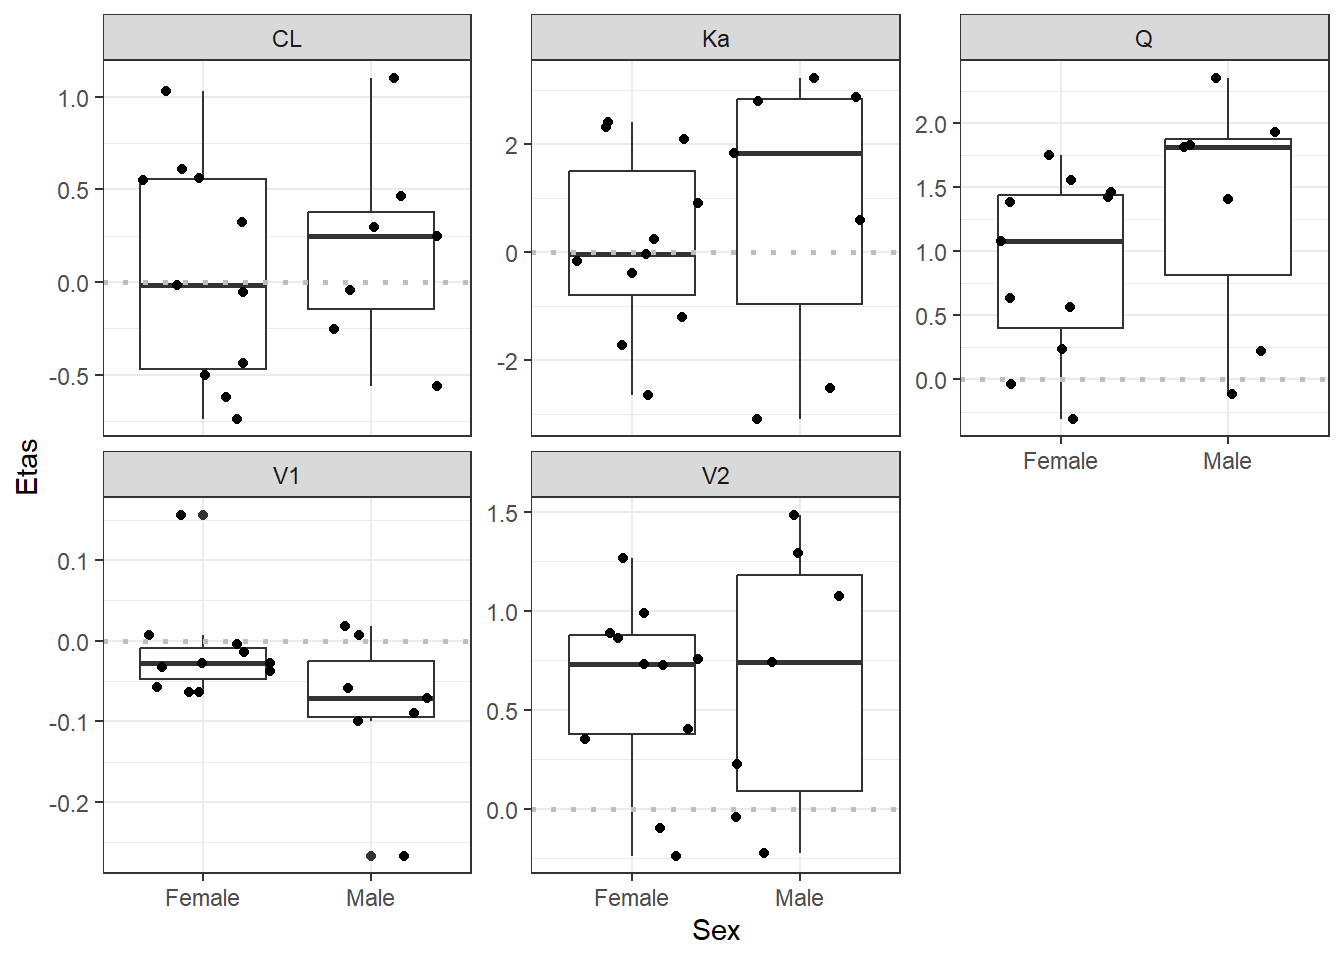
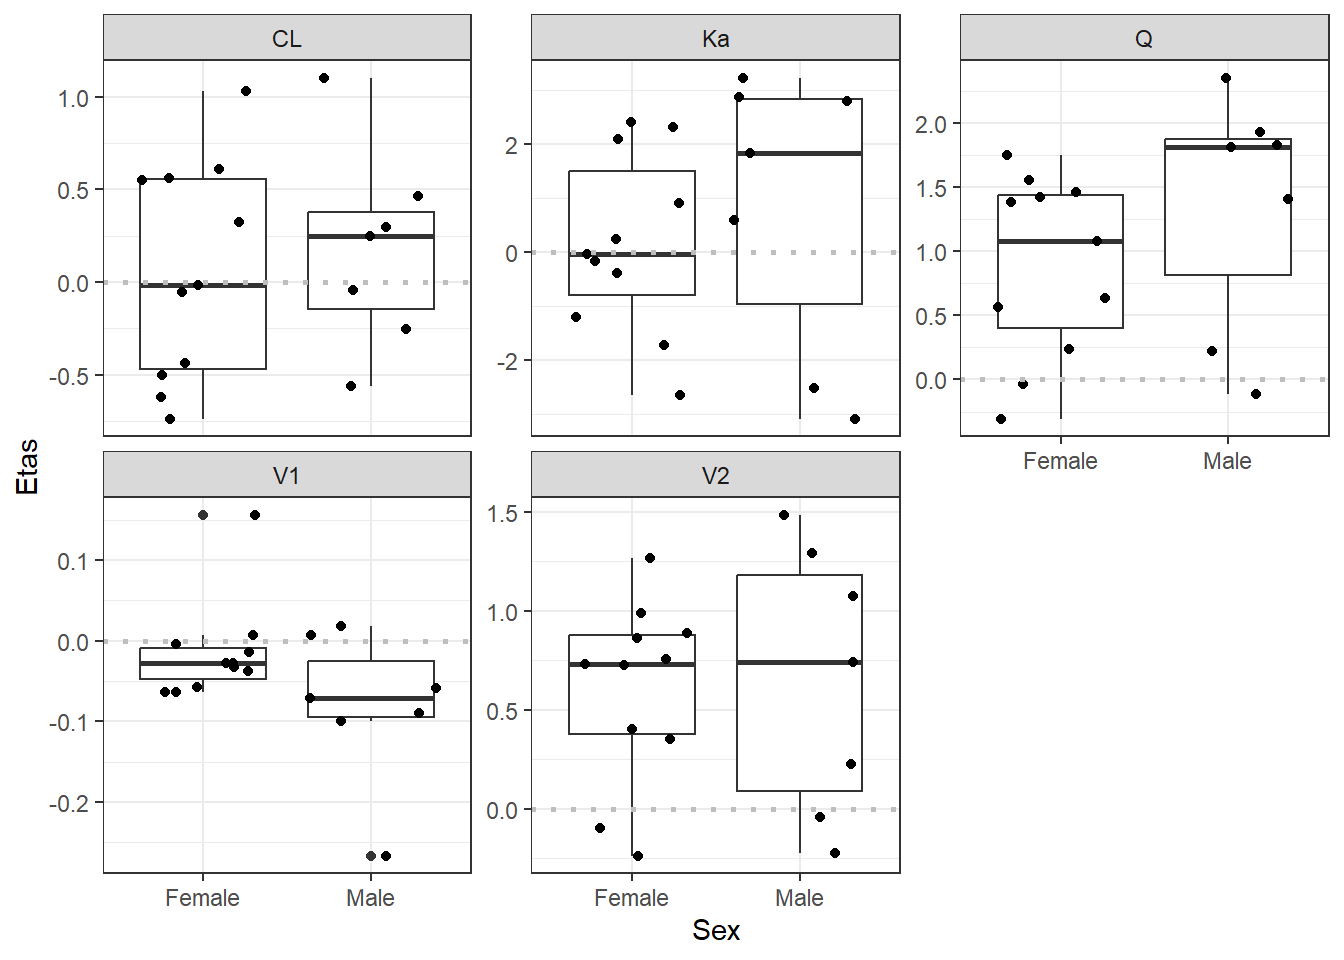
review

diff --git a/scripts/simulations.html b/scripts/simulations.html
@@ -227,7 +227,7 @@ div.csl-indent {
 <span id="cb2-26"><a href="#cb2-26" aria-hidden="true" tabindex="-1"></a>model_name <span class="ot">=</span> <span class="st">"2cmpabs-2cmpdisp"</span></span>
 <span id="cb2-27"><a href="#cb2-27" aria-hidden="true" tabindex="-1"></a>pkmod3 <span class="ot">&lt;-</span> <span class="fu">mread</span>(here<span class="sc">::</span><span class="fu">here</span>(sim_model_dir, model_name))</span>
 <span id="cb2-28"><a href="#cb2-28" aria-hidden="true" tabindex="-1"></a>model_dir <span class="ot">&lt;-</span> here<span class="sc">::</span><span class="fu">here</span>(<span class="st">"model"</span>,<span class="st">"torsten"</span>) </span>
-<span id="cb2-29"><a href="#cb2-29" aria-hidden="true" tabindex="-1"></a>modx  <span class="ot">&lt;-</span> <span class="fu">read_model</span>(here<span class="sc">::</span><span class="fu">here</span>(model_dir, <span class="st">"3"</span>))</span>
+<span id="cb2-29"><a href="#cb2-29" aria-hidden="true" tabindex="-1"></a>modx  <span class="ot">&lt;-</span> <span class="fu">read_model</span>(here<span class="sc">::</span><span class="fu">here</span>(model_dir, <span class="st">"3b"</span>))</span>
 <span id="cb2-30"><a href="#cb2-30" aria-hidden="true" tabindex="-1"></a>mod_to_plot <span class="ot">&lt;-</span> <span class="fu">read_fit_model</span>(modx)</span>
 <span id="cb2-31"><a href="#cb2-31" aria-hidden="true" tabindex="-1"></a>pars <span class="ot">=</span> <span class="fu">c</span>(<span class="st">"CLHat"</span>, <span class="st">"QHat"</span>, <span class="st">"V1Hat"</span>, <span class="st">"V2Hat"</span>, <span class="st">"KAHat"</span>, <span class="st">"KA14Hat"</span>, <span class="st">"KA41Hat"</span>)</span>
 <span id="cb2-32"><a href="#cb2-32" aria-hidden="true" tabindex="-1"></a>ptable3 <span class="ot">&lt;-</span> posterior<span class="sc">::</span><span class="fu">as_draws_df</span>(mod_to_plot<span class="sc">$</span><span class="fu">draws</span>(<span class="fu">c</span>(pars))) <span class="sc">%&gt;%</span></span>
@@ -244,7 +244,7 @@ div.csl-indent {
 <span id="cb2-43"><a href="#cb2-43" aria-hidden="true" tabindex="-1"></a>model_name <span class="ot">=</span> <span class="st">"2cmpabs-2cmpdisp-ss"</span></span>
 <span id="cb2-44"><a href="#cb2-44" aria-hidden="true" tabindex="-1"></a>pkmod3ss <span class="ot">&lt;-</span> <span class="fu">mread</span>(here<span class="sc">::</span><span class="fu">here</span>(sim_model_dir, model_name))</span>
 <span id="cb2-45"><a href="#cb2-45" aria-hidden="true" tabindex="-1"></a>model_dir <span class="ot">&lt;-</span> here<span class="sc">::</span><span class="fu">here</span>(<span class="st">"model"</span>,<span class="st">"torsten"</span>) </span>
-<span id="cb2-46"><a href="#cb2-46" aria-hidden="true" tabindex="-1"></a>modx  <span class="ot">&lt;-</span> <span class="fu">read_model</span>(here<span class="sc">::</span><span class="fu">here</span>(model_dir, <span class="st">"3"</span>))</span>
+<span id="cb2-46"><a href="#cb2-46" aria-hidden="true" tabindex="-1"></a>modx  <span class="ot">&lt;-</span> <span class="fu">read_model</span>(here<span class="sc">::</span><span class="fu">here</span>(model_dir, <span class="st">"3b"</span>))</span>
 <span id="cb2-47"><a href="#cb2-47" aria-hidden="true" tabindex="-1"></a>mod_to_plot <span class="ot">&lt;-</span> <span class="fu">read_fit_model</span>(modx)</span>
 <span id="cb2-48"><a href="#cb2-48" aria-hidden="true" tabindex="-1"></a>pars <span class="ot">=</span> <span class="fu">c</span>(<span class="st">"CLHat"</span>, <span class="st">"QHat"</span>, <span class="st">"V1Hat"</span>, <span class="st">"V2Hat"</span>, <span class="st">"KAHat"</span>, <span class="st">"KA14Hat"</span>, <span class="st">"KA41Hat"</span>)</span>
 <span id="cb2-49"><a href="#cb2-49" aria-hidden="true" tabindex="-1"></a>ptable3ss <span class="ot">&lt;-</span> posterior<span class="sc">::</span><span class="fu">as_draws_df</span>(mod_to_plot<span class="sc">$</span><span class="fu">draws</span>(<span class="fu">c</span>(pars))) <span class="sc">%&gt;%</span></span>
@@ -463,22 +463,22 @@ other attached packages:
 
 loaded via a namespace (and not attached):
  [1] gtable_0.3.5         tensorA_0.36.2.1     xfun_0.50           
- [4] htmlwidgets_1.6.4    visdat_0.6.0         processx_3.8.5      
- [7] callr_3.7.6          tzdb_0.4.0           vctrs_0.6.5         
-[10] tools_4.3.1          ps_1.8.1             generics_0.1.3      
-[13] pkgconfig_2.0.3      checkmate_2.3.2      distributional_0.5.0
-[16] assertthat_0.2.1     lifecycle_1.0.4      farver_2.1.2        
-[19] compiler_4.3.1       textshaping_0.4.0    munsell_0.5.1       
-[22] htmltools_0.5.8.1    yaml_2.3.10          pillar_1.10.1       
-[25] crayon_1.5.3         abind_1.4-8          tidyselect_1.2.1    
-[28] digest_0.6.37        stringi_1.8.4        diffobj_0.3.5       
-[31] labeling_0.4.3       rprojroot_2.0.4      fastmap_1.2.0       
-[34] grid_4.3.1           colorspace_2.1-0     cli_3.6.3           
-[37] magrittr_2.0.3       withr_3.0.2          backports_1.5.0     
-[40] timechange_0.3.0     rmarkdown_2.27       ragg_1.3.2          
-[43] hms_1.1.3            evaluate_0.23        rlang_1.1.4         
-[46] Rcpp_1.0.13-1        rstudioapi_0.16.0    jsonlite_1.8.9      
-[49] R6_2.5.1             systemfonts_1.1.0    fs_1.6.5            </code></pre>
+ [4] visdat_0.6.0         processx_3.8.5       callr_3.7.6         
+ [7] tzdb_0.4.0           vctrs_0.6.5          tools_4.3.1         
+[10] ps_1.8.1             generics_0.1.3       pkgconfig_2.0.3     
+[13] checkmate_2.3.2      distributional_0.5.0 assertthat_0.2.1    
+[16] lifecycle_1.0.4      farver_2.1.2         compiler_4.3.1      
+[19] textshaping_0.4.0    munsell_0.5.1        htmltools_0.5.8.1   
+[22] yaml_2.3.10          pillar_1.10.1        crayon_1.5.3        
+[25] abind_1.4-8          tidyselect_1.2.1     digest_0.6.37       
+[28] stringi_1.8.4        diffobj_0.3.5        labeling_0.4.3      
+[31] rprojroot_2.0.4      fastmap_1.2.0        grid_4.3.1          
+[34] colorspace_2.1-0     cli_3.6.3            magrittr_2.0.3      
+[37] withr_3.0.2          backports_1.5.0      timechange_0.3.0    
+[40] rmarkdown_2.27       ragg_1.3.2           hms_1.1.3           
+[43] evaluate_0.23        rlang_1.1.4          Rcpp_1.0.13-1       
+[46] rstudioapi_0.16.0    jsonlite_1.8.9       R6_2.5.1            
+[49] systemfonts_1.1.0    fs_1.6.5            </code></pre>
 </div>
 </div>
 </section>

diff --git a/scripts/bayesian-analysis.html b/scripts/bayesian-analysis.html
@@ -1406,13 +1406,13 @@ div.csl-indent {
 </details>
 <div class="cell-output cell-output-stdout">
 <pre><code>[[1]]
-[1] "C:/Users/GUMed/Documents/PKPDprojects/sufentanil_epidural/deliv/figures/torsten/1/cov-plots-1.png"
+[1] "C:/Users/GUMed/Documents/PKPDprojects/sufentanil-epidural/deliv/figures/torsten/1/cov-plots-1.png"
 
 [[2]]
-[1] "C:/Users/GUMed/Documents/PKPDprojects/sufentanil_epidural/deliv/figures/torsten/1/cov-plots-2.png"
+[1] "C:/Users/GUMed/Documents/PKPDprojects/sufentanil-epidural/deliv/figures/torsten/1/cov-plots-2.png"
 
 [[3]]
-[1] "C:/Users/GUMed/Documents/PKPDprojects/sufentanil_epidural/deliv/figures/torsten/1/cov-plots-3.png"</code></pre>
+[1] "C:/Users/GUMed/Documents/PKPDprojects/sufentanil-epidural/deliv/figures/torsten/1/cov-plots-3.png"</code></pre>
 </div>
 </div>
 </section>
@@ -2340,13 +2340,13 @@ div.csl-indent {
 </details>
 <div class="cell-output cell-output-stdout">
 <pre><code>[[1]]
-[1] "C:/Users/GUMed/Documents/PKPDprojects/sufentanil_epidural/deliv/figures/torsten/3b/cov-plots-1.png"
+[1] "C:/Users/GUMed/Documents/PKPDprojects/sufentanil-epidural/deliv/figures/torsten/3b/cov-plots-1.png"
 
 [[2]]
-[1] "C:/Users/GUMed/Documents/PKPDprojects/sufentanil_epidural/deliv/figures/torsten/3b/cov-plots-2.png"
+[1] "C:/Users/GUMed/Documents/PKPDprojects/sufentanil-epidural/deliv/figures/torsten/3b/cov-plots-2.png"
 
 [[3]]
-[1] "C:/Users/GUMed/Documents/PKPDprojects/sufentanil_epidural/deliv/figures/torsten/3b/cov-plots-3.png"</code></pre>
+[1] "C:/Users/GUMed/Documents/PKPDprojects/sufentanil-epidural/deliv/figures/torsten/3b/cov-plots-3.png"</code></pre>
 </div>
 <details>
 <summary>Code</summary>
@@ -3455,25 +3455,25 @@ loaded via a namespace (and not attached):
  [7] tensorA_0.36.2.1     digest_0.6.37        timechange_0.3.0    
 [10] lifecycle_1.0.4      processx_3.8.5       magrittr_2.0.3      
 [13] compiler_4.3.1       rlang_1.1.4          tools_4.3.1         
-[16] yaml_2.3.10          labeling_0.4.3       htmlwidgets_1.6.4   
-[19] classInt_0.4-10      plyr_1.8.9           xml2_1.3.6          
-[22] RColorBrewer_1.1-3   KernSmooth_2.23-21   abind_1.4-8         
-[25] withr_3.0.2          grid_4.3.1           diffobj_0.3.5       
-[28] e1071_1.7-14         colorspace_2.1-0     cli_3.6.3           
-[31] rmarkdown_2.27       crayon_1.5.3         ragg_1.3.2          
-[34] generics_0.1.3       rstudioapi_0.16.0    reshape2_1.4.4      
-[37] tzdb_0.4.0           proxy_0.4-27         bayesplot_1.11.1    
-[40] assertthat_0.2.1     parallel_4.3.1       matrixStats_1.5.0   
-[43] vctrs_0.6.5          jsonlite_1.8.9       callr_3.7.6         
-[46] arrayhelpers_1.1-0   hms_1.1.3            visdat_0.6.0        
-[49] systemfonts_1.1.0    ggdist_3.3.2         ps_1.8.1            
-[52] distributional_0.5.0 stringi_1.8.4        gtable_0.3.5        
-[55] munsell_0.5.1        pillar_1.10.1        htmltools_0.5.8.1   
-[58] R6_2.5.1             textshaping_0.4.0    rprojroot_2.0.4     
-[61] lattice_0.21-8       evaluate_0.23        kableExtra_1.4.0    
-[64] backports_1.5.0      class_7.3-22         Rcpp_1.0.13-1       
-[67] coda_0.19-4.1        svglite_2.1.3        checkmate_2.3.2     
-[70] xfun_0.50            fs_1.6.5             pkgconfig_2.0.3     </code></pre>
+[16] yaml_2.3.10          labeling_0.4.3       classInt_0.4-10     
+[19] plyr_1.8.9           xml2_1.3.6           RColorBrewer_1.1-3  
+[22] abind_1.4-8          KernSmooth_2.23-21   withr_3.0.2         
+[25] grid_4.3.1           diffobj_0.3.5        e1071_1.7-14        
+[28] colorspace_2.1-0     cli_3.6.3            rmarkdown_2.27      
+[31] crayon_1.5.3         ragg_1.3.2           generics_0.1.3      
+[34] rstudioapi_0.16.0    reshape2_1.4.4       tzdb_0.4.0          
+[37] proxy_0.4-27         bayesplot_1.11.1     assertthat_0.2.1    
+[40] parallel_4.3.1       matrixStats_1.5.0    vctrs_0.6.5         
+[43] jsonlite_1.8.9       callr_3.7.6          arrayhelpers_1.1-0  
+[46] hms_1.1.3            visdat_0.6.0         systemfonts_1.1.0   
+[49] ggdist_3.3.2         ps_1.8.1             distributional_0.5.0
+[52] stringi_1.8.4        gtable_0.3.5         munsell_0.5.1       
+[55] pillar_1.10.1        htmltools_0.5.8.1    R6_2.5.1            
+[58] textshaping_0.4.0    rprojroot_2.0.4      lattice_0.21-8      
+[61] evaluate_0.23        kableExtra_1.4.0     backports_1.5.0     
+[64] class_7.3-22         Rcpp_1.0.13-1        coda_0.19-4.1       
+[67] svglite_2.1.3        checkmate_2.3.2      xfun_0.50           
+[70] fs_1.6.5             pkgconfig_2.0.3     </code></pre>
 </div>
 </div>
 </section>

diff --git a/deliv/tables/torsten/3b/parameters-table.tex b/deliv/tables/torsten/3b/parameters-table.tex
@@ -1,0 +1,40 @@
+
+\begin{tabular}{l|l|l|l|l|l}
+\hline
+parameter & mean & median & sd & 90\% CI & rhat\\
+\hline
+lp\_\_ & -131 & -131 & 10.6 & (-150, -115) & 1\\
+\hline
+CLHat & 64.9 & 64.5 & 7.85 & (52.4, 78.2) & 1\\
+\hline
+QHat & 48.2 & 47.1 & 11 & (32.5, 68.5) & 1\\
+\hline
+V1Hat & 10.2 & 9.97 & 2.4 & (6.72, 14.4) & 1\\
+\hline
+V2Hat & 506 & 495 & 110 & ( 345,  700) & 1\\
+\hline
+KAHat & 3.27 & 3.13 & 0.901 & (2.04, 4.98) & 1\\
+\hline
+KA14Hat & 14.9 & 14.3 & 4.03 & (9.33, 22.4) & 1\\
+\hline
+KA41Hat & 0.135 & 0.134 & 0.0229 & (0.0987, 0.175) & 1\\
+\hline
+omega[1] & 0.49 & 0.482 & 0.0734 & (0.383, 0.623) & 1\\
+\hline
+omega[2] & 0.448 & 0.433 & 0.115 & (0.286, 0.653) & 1\\
+\hline
+omega[3] & 1.51 & 1.5 & 0.225 & (1.13, 1.88) & 1\\
+\hline
+omega[4] & 0.408 & 0.393 & 0.107 & (0.26, 0.609) & 1\\
+\hline
+omega[5] & 0.362 & 0.355 & 0.0822 & (0.241, 0.504) & 1\\
+\hline
+omega[6] & 0.384 & 0.373 & 0.0864 & (0.259, 0.546) & 1\\
+\hline
+omega[7] & 0.502 & 0.496 & 0.112 & (0.331, 0.702) & 1\\
+\hline
+sigma & 0.307 & 0.305 & 0.027 & (0.266, 0.354) & 1\\
+\hline
+nu & 3.81 & 3.55 & 0.862 & (3.04, 5.44) & 1\\
+\hline
+\end{tabular}

diff --git a/deliv/tables/torsten/3c/parameters-table.tex b/deliv/tables/torsten/3c/parameters-table.tex
@@ -1,0 +1,40 @@
+
+\begin{tabular}{l|l|l|l|l|l}
+\hline
+parameter & mean & median & sd & 90\% CI & rhat\\
+\hline
+lp\_\_ & -96 & -95.6 & 9.25 & (-112, -81.3) & 1\\
+\hline
+CLHat & 46.8 & 45.3 & 12 & (29.9, 68.8) & 1\\
+\hline
+QHat & 39.5 & 38.2 & 10.4 & (  25, 58.3) & 1\\
+\hline
+V1Hat & 8.17 & 7.93 & 2.03 & (5.27, 11.8) & 1\\
+\hline
+V2Hat & 497 & 482 & 125 & ( 324,  723) & 1\\
+\hline
+KAHat & 4.87 & 4.59 & 1.98 & (2.09, 8.65) & 1\\
+\hline
+KA14Hat & 5.53 & 4.84 & 2.98 & (2.15,   11) & 1\\
+\hline
+KA41Hat & 0.0821 & 0.0818 & 0.0387 & (0.0184, 0.148) & 1\\
+\hline
+omega[1] & 0.413 & 0.4 & 0.106 & (0.264, 0.606) & 1\\
+\hline
+omega[2] & 0.413 & 0.401 & 0.0997 & (0.27, 0.597) & 1\\
+\hline
+omega[3] & 0.413 & 0.399 & 0.105 & (0.264, 0.602) & 1\\
+\hline
+omega[4] & 0.414 & 0.4 & 0.106 & (0.264, 0.603) & 1\\
+\hline
+omega[5] & 0.415 & 0.401 & 0.107 & (0.267, 0.615) & 1\\
+\hline
+omega[6] & 0.414 & 0.401 & 0.109 & (0.262, 0.614) & 1\\
+\hline
+omega[7] & 0.413 & 0.401 & 0.102 & (0.269, 0.597) & 1\\
+\hline
+sigma & 0.206 & 0.2 & 0.0522 & (0.132,  0.3) & 1\\
+\hline
+nu & 20.8 & 17.1 & 14.5 & (4.98, 49.8) & 1\\
+\hline
+\end{tabular}
